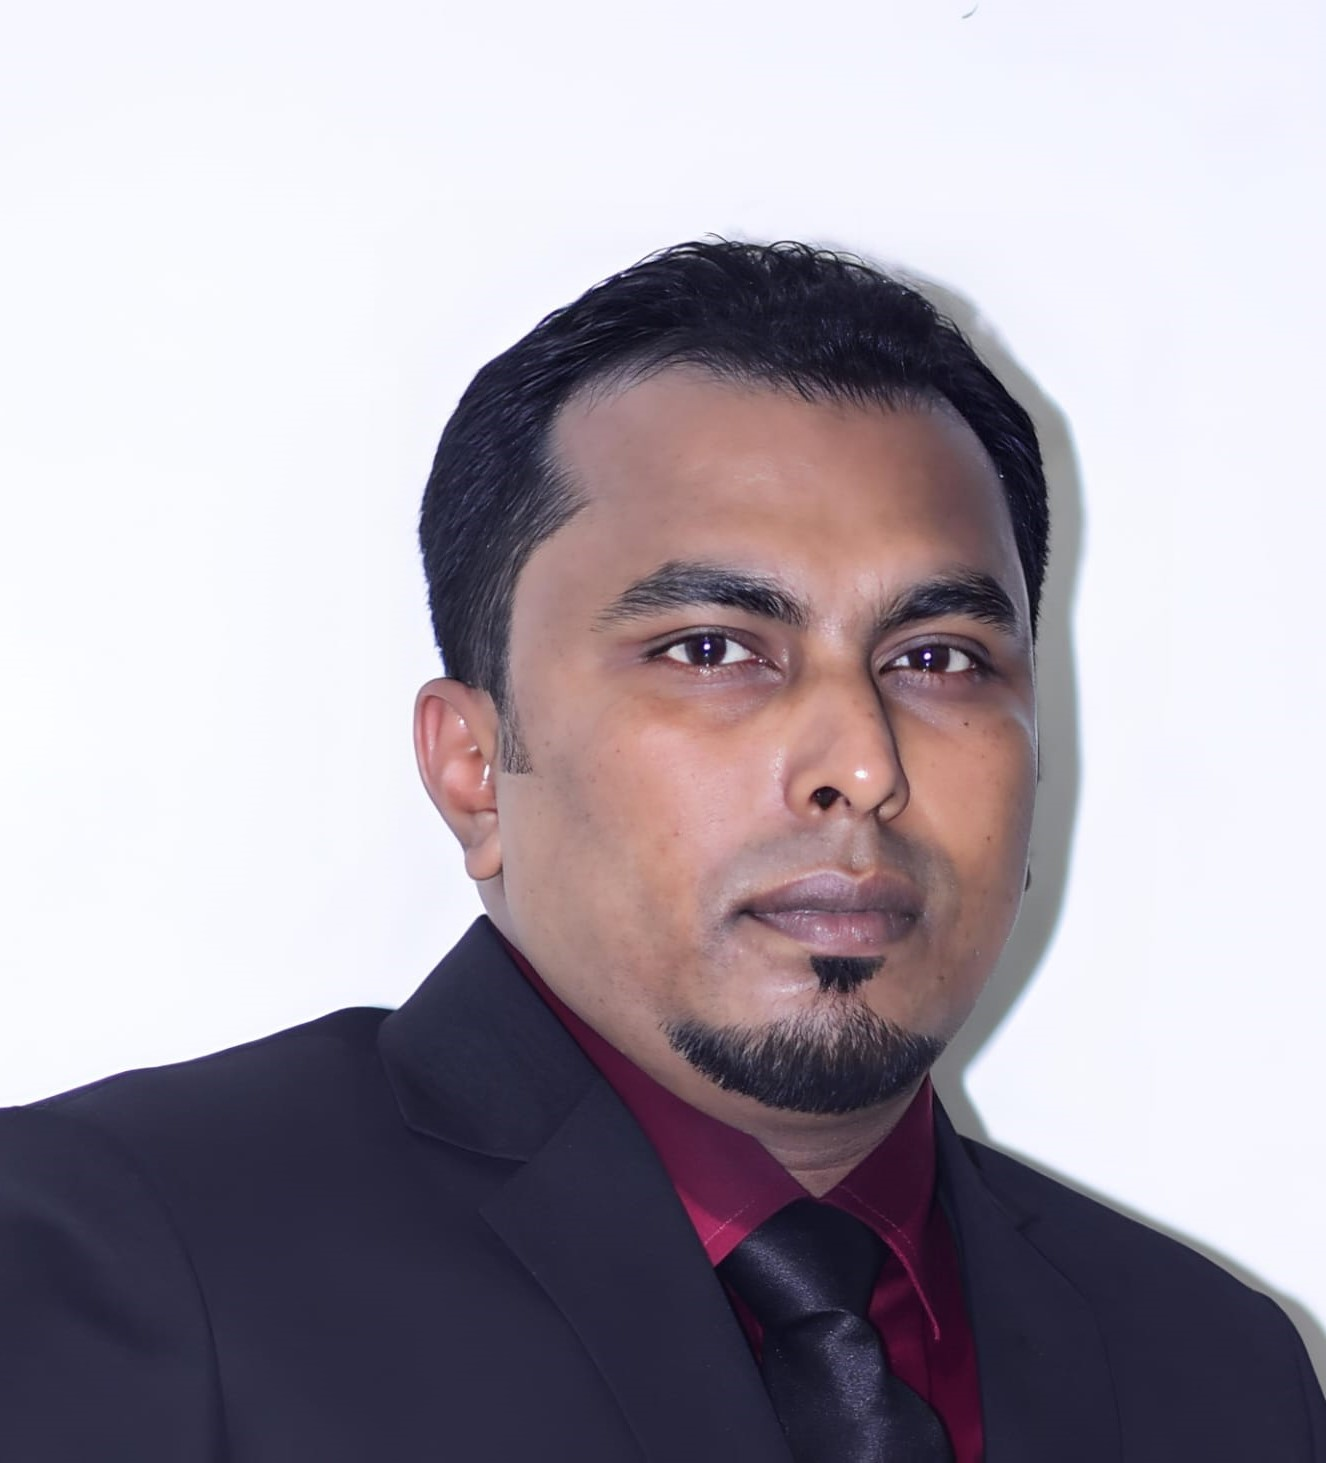
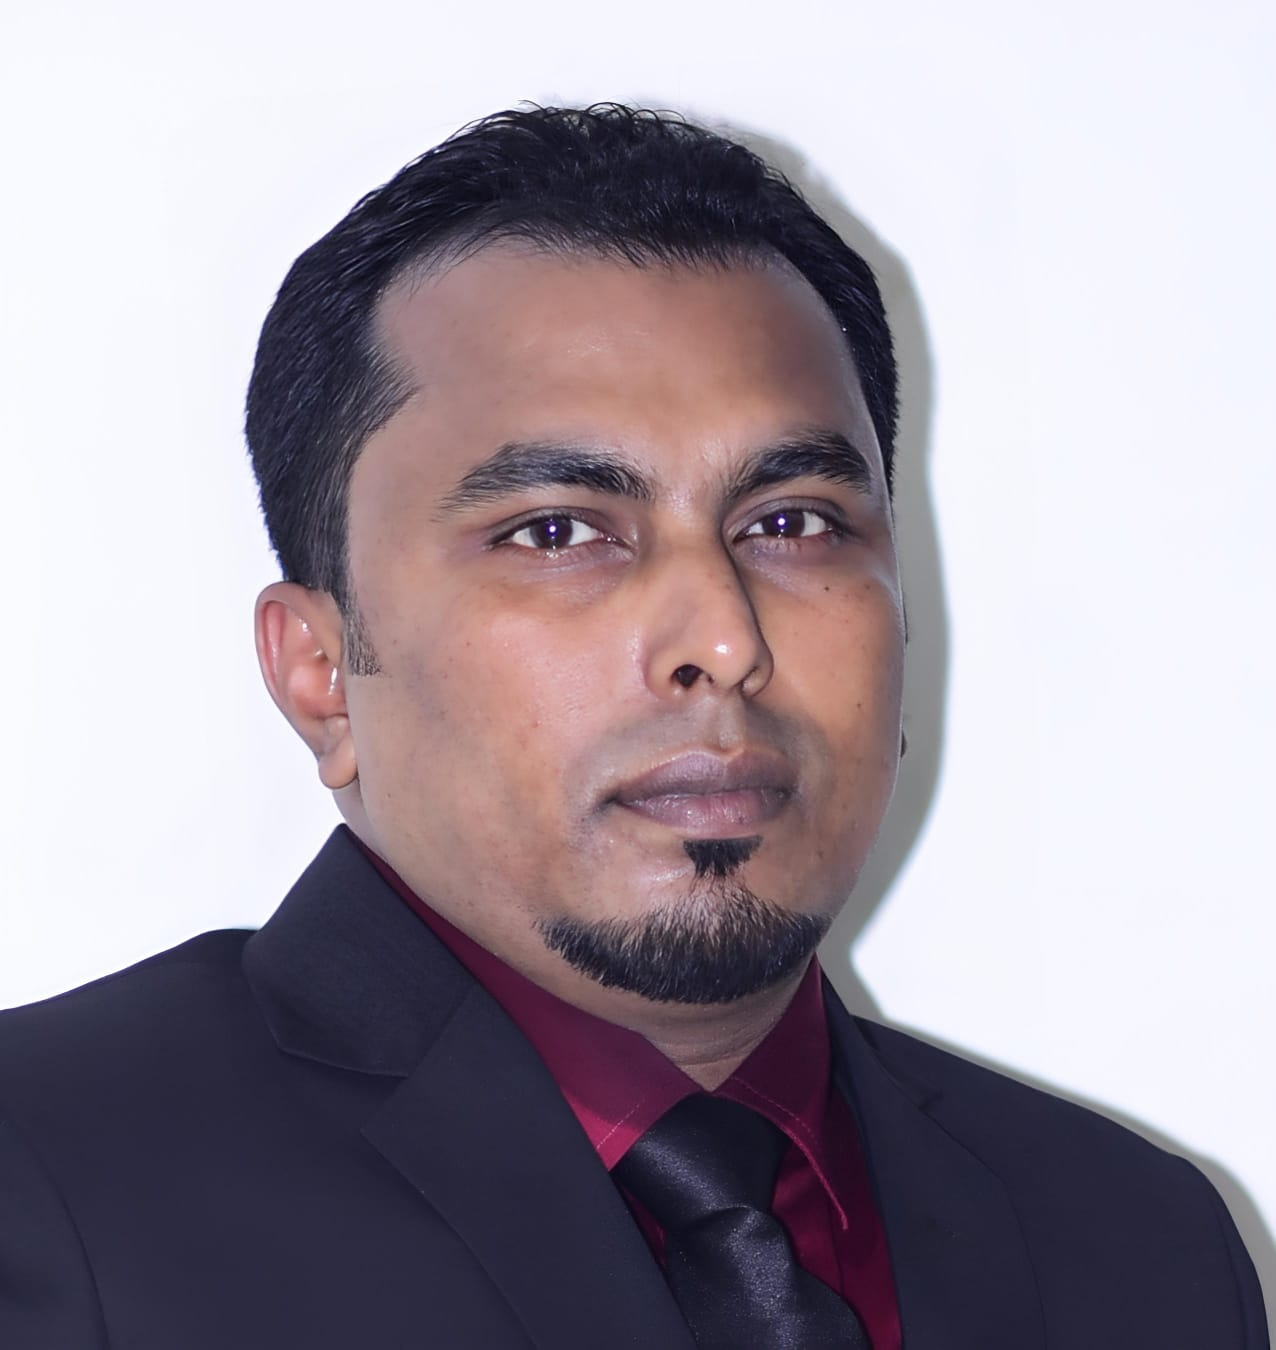
Team: done

diff --git a/resources/views/pages/home.blade.php b/resources/views/pages/home.blade.php
@@ -36,6 +36,27 @@
                     'Embrace digital transformation with smart technologies and innovative solutions that improve business processes, enhance customer experiences, and create lasting growth.',
                 'image' => '/images/home/hero/hero_3.jpg',
             ],
+            [
+                'subtitle' => 'Internet',
+                'title' => 'BCT & Business Internet',
+                'desc' =>
+                    'High-speed, redundant pipelines keeping your office fast and reliable.',
+                'image' => '/images/home/hero/hero_4.jpg',
+            ],
+            [
+                'subtitle' => 'Cyber Security',
+                'title' => 'Cyber Security & Data Protection',
+                'desc' =>
+                    'Proactive real-time monitoring and defenses to keep your data safe.',
+                'image' => '/images/home/hero/hero_5.jpg',
+            ],
+            [
+                'subtitle' => 'Cloud Services',
+                'title' => 'Microsoft 365 & Cloud Services',
+                'desc' =>
+                    'Secure email, collaboration and cloud services — set up the right way.',
+                'image' => '/images/home/hero/hero_6.jpg',
+            ],
         ];
     @endphp
 
@@ -145,14 +166,15 @@
         </style>
     </div>
 
+    {{-- do not removed  --}}
     {{-- ======================== HERO SLIDER ======================== --}}
-    <section class="relative w-full overflow-hidden bg-white py-8 md:pt-16">
+    {{-- <section class="relative w-full overflow-hidden bg-white py-8 md:pt-16">
         <div class="reveal reveal-fade-up px-4 sm:px-6 lg:px-8">
             <div class="swiper hero-swiper w-full">
-                <div class="swiper-wrapper">
+                <div class="swiper-wrapper"> --}}
 
                     {{-- Slide 1: IT --}}
-                    <div class="swiper-slide">
+                    {{-- <div class="swiper-slide">
                         <div class="grid grid-cols-1 items-center gap-8 md:grid-cols-2 pb-8">
                             <div class="flex flex-col items-start space-y-4 md:space-y-6 text-left order-2 md:order-1">
                                 <span
@@ -178,9 +200,9 @@
                                 </div>
                             </div>
                         </div>
-                    </div>
+                    </div> --}}
                     {{-- Slide 2: Internet --}}
-                    <div class="swiper-slide">
+                    {{-- <div class="swiper-slide">
                         <div class="grid grid-cols-1 items-center gap-8 md:grid-cols-2 pb-8">
                             <div class="flex flex-col items-start space-y-4 md:space-y-6 text-left order-2 md:order-1">
                                 <span
@@ -206,9 +228,9 @@
                                 </div>
                             </div>
                         </div>
-                    </div>
+                    </div> --}}
                     {{-- Slide 3: Cyber Security --}}
-                    <div class="swiper-slide">
+                    {{-- <div class="swiper-slide">
                         <div class="grid grid-cols-1 items-center gap-8 md:grid-cols-2 pb-8">
                             <div class="flex flex-col items-start space-y-4 md:space-y-6 text-left order-2 md:order-1">
                                 <span
@@ -234,9 +256,9 @@
                                 </div>
                             </div>
                         </div>
-                    </div>
+                    </div> --}}
                     {{-- Slide 4: Cloud --}}
-                    <div class="swiper-slide">
+                    {{-- <div class="swiper-slide">
                         <div class="grid grid-cols-1 items-center gap-8 md:grid-cols-2 pb-8">
                             <div class="flex flex-col items-start space-y-4 md:space-y-6 text-left order-2 md:order-1">
                                 <span
@@ -261,9 +283,9 @@
                                 </div>
                             </div>
                         </div>
-                    </div>
+                    </div> --}}
                     {{-- Slide 5: Telecoms --}}
-                    <div class="swiper-slide">
+                    {{-- <div class="swiper-slide">
                         <div class="grid grid-cols-1 items-center gap-8 md:grid-cols-2 pb-8">
                             <div class="flex flex-col items-start space-y-4 md:space-y-6 text-left order-2 md:order-1">
                                 <span
@@ -289,15 +311,14 @@
                                 </div>
                             </div>
                         </div>
-                    </div>
-                </div>
-            </div>
+                    </div> --}}
+                {{-- </div>
+            </div> --}}
 
             {{-- Hero Indicators --}}
-            <div class="mt-4 border-t border-gray-100 pt-4">
+            {{-- <div class="mt-4 border-t border-gray-100 pt-4">
                 <div
                     class="grid grid-cols-2 gap-3 sm:grid-cols-3 md:flex md:items-stretch md:justify-between md:gap-0 divide-x-0 md:divide-x divide-gray-200">
-                    {{-- 1 IT --}}
                     <button onclick="heroSwiper.slideToLoop(0)"
                         class="hero-indicator group relative flex flex-col items-start p-3 text-left transition-all outline-none md:flex-1 md:px-4 border-t border-t-white"
                         data-index="1">
@@ -309,7 +330,6 @@
                         <span class="mt-1 text-xs font-bold leading-tight md:text-sm text-gray-500">Fully Managed &amp;
                             AdHoc</span>
                     </button>
-                    {{-- 2 INTERNET  --}}
                     <button onclick="heroSwiper.slideToLoop(1)"
                         class="hero-indicator group relative flex flex-col items-start p-3 text-left transition-all outline-none md:flex-1 md:px-4 border-t border-t-white"
                         data-index="4">
@@ -321,7 +341,6 @@
                         <span class="mt-1 text-xs font-bold leading-tight md:text-sm text-gray-500">Internet, Home &amp;
                             Business</span>
                     </button>
-                    {{-- 3 CYBER  --}}
                     <button onclick="heroSwiper.slideToLoop(2)"
                         class="hero-indicator group relative flex flex-col items-start p-3 text-left transition-all outline-none md:flex-1 md:px-4 border-t border-t-white"
                         data-index="2">
@@ -333,7 +352,6 @@
                         <span class="mt-1 text-xs font-bold leading-tight md:text-sm text-gray-500">Proactive
                             Security</span>
                     </button>
-                    {{-- 4 Cloud  --}}
                     <button onclick="heroSwiper.slideToLoop(4)"
                         class="hero-indicator group relative flex flex-col items-start p-3 text-left transition-all outline-none md:flex-1 md:px-4 border-t border-t-brand-blue"
                         data-index="0">
@@ -344,7 +362,6 @@
                         <span class="mt-1 text-xs font-bold leading-tight md:text-sm text-blue-500">Modern cloud
                             tools</span>
                     </button>
-                    {{-- 5 TELECOM  --}}
                     <button onclick="heroSwiper.slideToLoop(4)"
                         class="hero-indicator group relative flex flex-col items-start p-3 text-left transition-all outline-none md:flex-1 md:px-4 border-t border-t-white"
                         data-index="3">
@@ -359,7 +376,7 @@
                 </div>
             </div>
         </div>
-    </section>
+    </section> --}}
 
 
     {{-- ======================== ABOUT SECTION ======================== --}}
@@ -1107,6 +1124,12 @@
                         'label' => 'Executive',
                         'image' => '/images/home/team/rs.jpeg',
                     ],
+                    [
+                        'name' => 'Chandra Barai',
+                        'role' => 'Marketing Executive & Customer Support',
+                        'label' => 'Executive',
+                        'image' => '/images/home/team/cb.jpeg',
+                    ],
                 ];
             @endphp
             <div class="swiper team-swiper overflow-hidden pb-2">
@@ -1130,8 +1153,7 @@
                                         </div>
                                     </div>
                                     <div class="mt-5 space-y-1">
-                                        <p class="text-[13px] font-semibold text-gray-500 tracking-wide">/
-                                            {{ $member['role'] }} /
+                                        <p class="text-[13px] font-semibold text-gray-500 tracking-wide">/{{ $member['role'] }}/
                                         </p>
                                         <h3
                                             class="text-xl font-bold text-dark-hero transition-colors duration-300 group-hover:text-accent-orange">

diff --git a/resources/views/pages/pages/about.blade.php b/resources/views/pages/pages/about.blade.php
@@ -116,35 +116,6 @@
         </div>
     </section>
 
-    {{-- Team Preview --}}
-    <section class="py-20 bg-white">
-        <div class="max-w-7xl mx-auto px-4 sm:px-6 lg:px-8">
-            <div class="reveal reveal-fade-up text-center mb-16">
-                <span class="inline-block text-brand-blue font-bold text-sm uppercase tracking-wider mb-3">Team Members</span>
-                <h2 class="text-3xl md:text-4xl font-extrabold text-heading">Meet Our Expert Members</h2>
-            </div>
-            <div class="reveal reveal-fade-up grid sm:grid-cols-2 lg:grid-cols-4 gap-8">
-                @php
-                    $teamMembers = [
-                        ['name' => 'Tamzid Hasan', 'role' => 'IT Consultant', 'image' => '/images/home/team/team_1_1.jpg'],
-                        ['name' => 'Habibullah Mezbah', 'role' => 'Web Developer', 'image' => '/images/home/team/team_1_2.jpg'],
-                        ['name' => 'Tanzim Hasan Anik', 'role' => 'Director', 'image' => '/images/home/team/team_1_3.jpg'],
-                        ['name' => 'Tamzid Hasan', 'role' => 'IT Consultant', 'image' => '/images/home/team/team_1_4.jpg'],
-                    ];
-                @endphp
-                @foreach ($teamMembers as $member)
-                    <div class="group text-center">
-                        <div class="relative overflow-hidden rounded-2xl mb-4">
-                            <img src="{{ $member['image'] }}" alt="{{ $member['name'] }}" class="w-full h-72 object-cover group-hover:scale-105 transition-transform duration-500" />
-                        </div>
-                        <h4 class="text-lg font-bold text-heading">{{ $member['name'] }}</h4>
-                        <p class="text-sm text-body-muted">{{ $member['role'] }}</p>
-                    </div>
-                @endforeach
-            </div>
-        </div>
-    </section>
-
     {{-- FAQ Section --}}
     <section class="py-20 bg-brand-light-bg">
         <div class="max-w-7xl mx-auto px-4 sm:px-6 lg:px-8">

diff --git a/resources/views/pages/pages/team.blade.php b/resources/views/pages/pages/team.blade.php
@@ -68,6 +68,12 @@
                         'label' => 'Executive',
                         'image' => '/images/home/team/rs.jpeg',
                     ],
+                    [
+                        'name' => 'Chandra Barai',
+                        'role' => 'Marketing Executive & Customer Support',
+                        'label' => 'Executive',
+                        'image' => '/images/home/team/cb.jpeg',
+                    ],
                 ];
             @endphp
             <div class="grid grid-cols-1 sm:grid-cols-2 lg:grid-cols-3 xl:grid-cols-4 gap-6">
@@ -89,8 +95,7 @@
                                 </div>
                             </div>
                             <div class="mt-5 space-y-1">
-                                <p class="text-[13px] font-semibold text-gray-500 tracking-wide">/
-                                    {{ $member['role'] }} /
+                                <p class="text-[13px] font-semibold text-gray-500 tracking-wide">/{{ $member['role'] }}/
                                 </p>
                                 <h3
                                     class="text-xl font-bold text-dark-hero transition-colors duration-300 group-hover:text-accent-orange">
